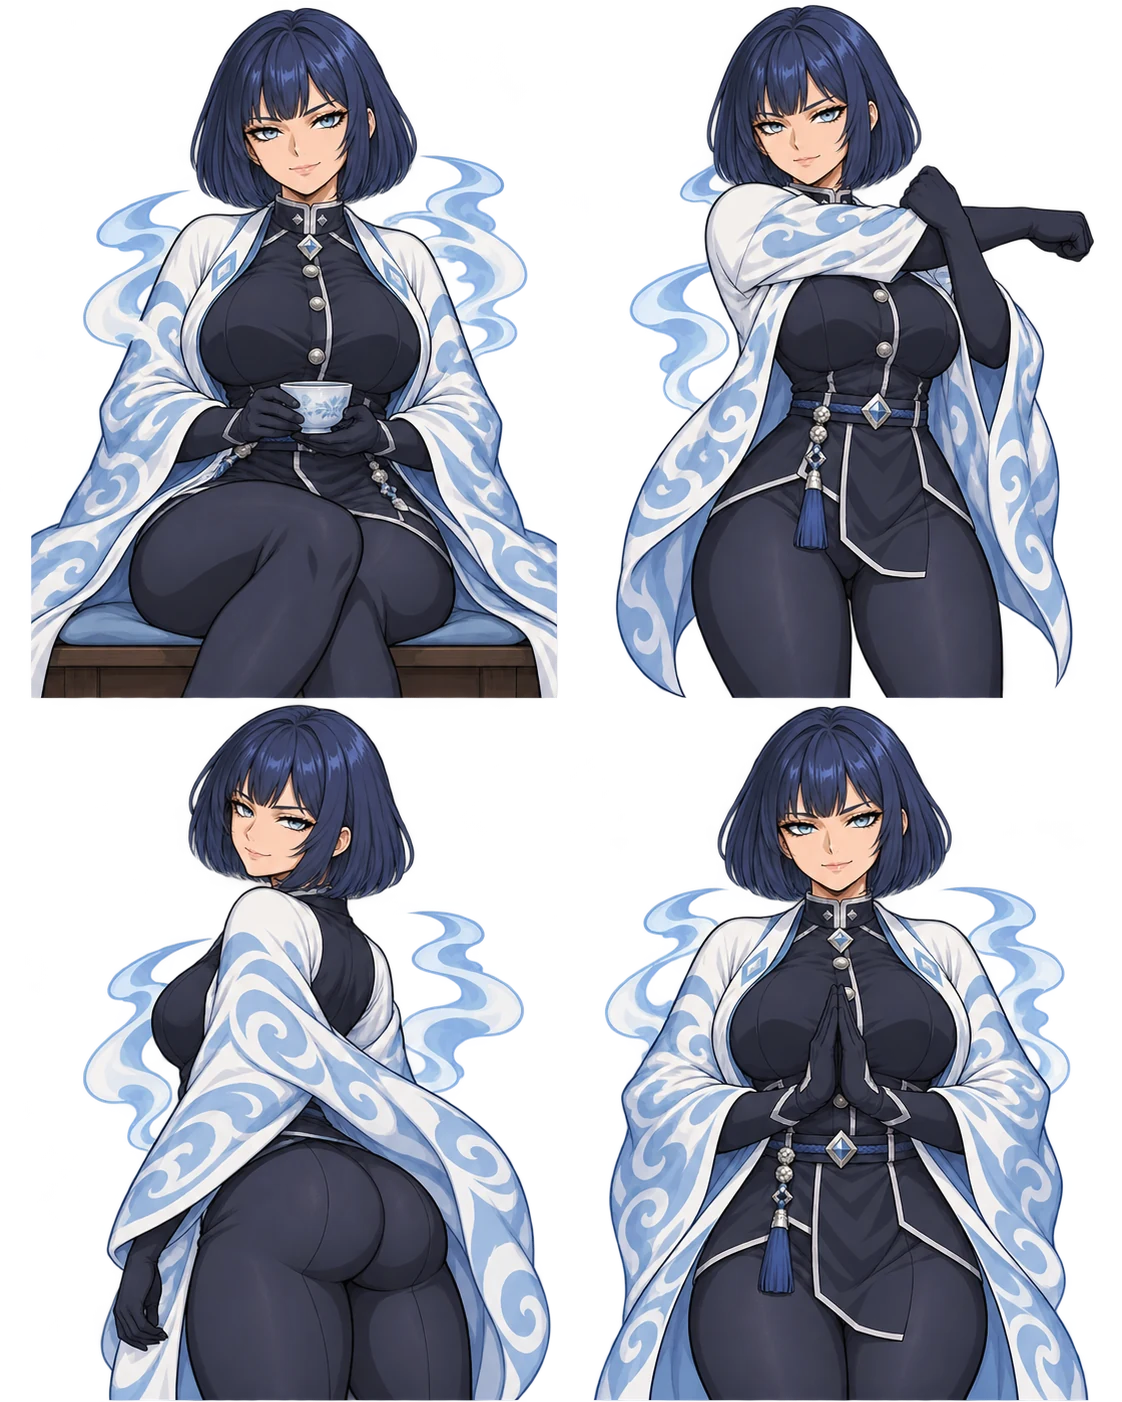
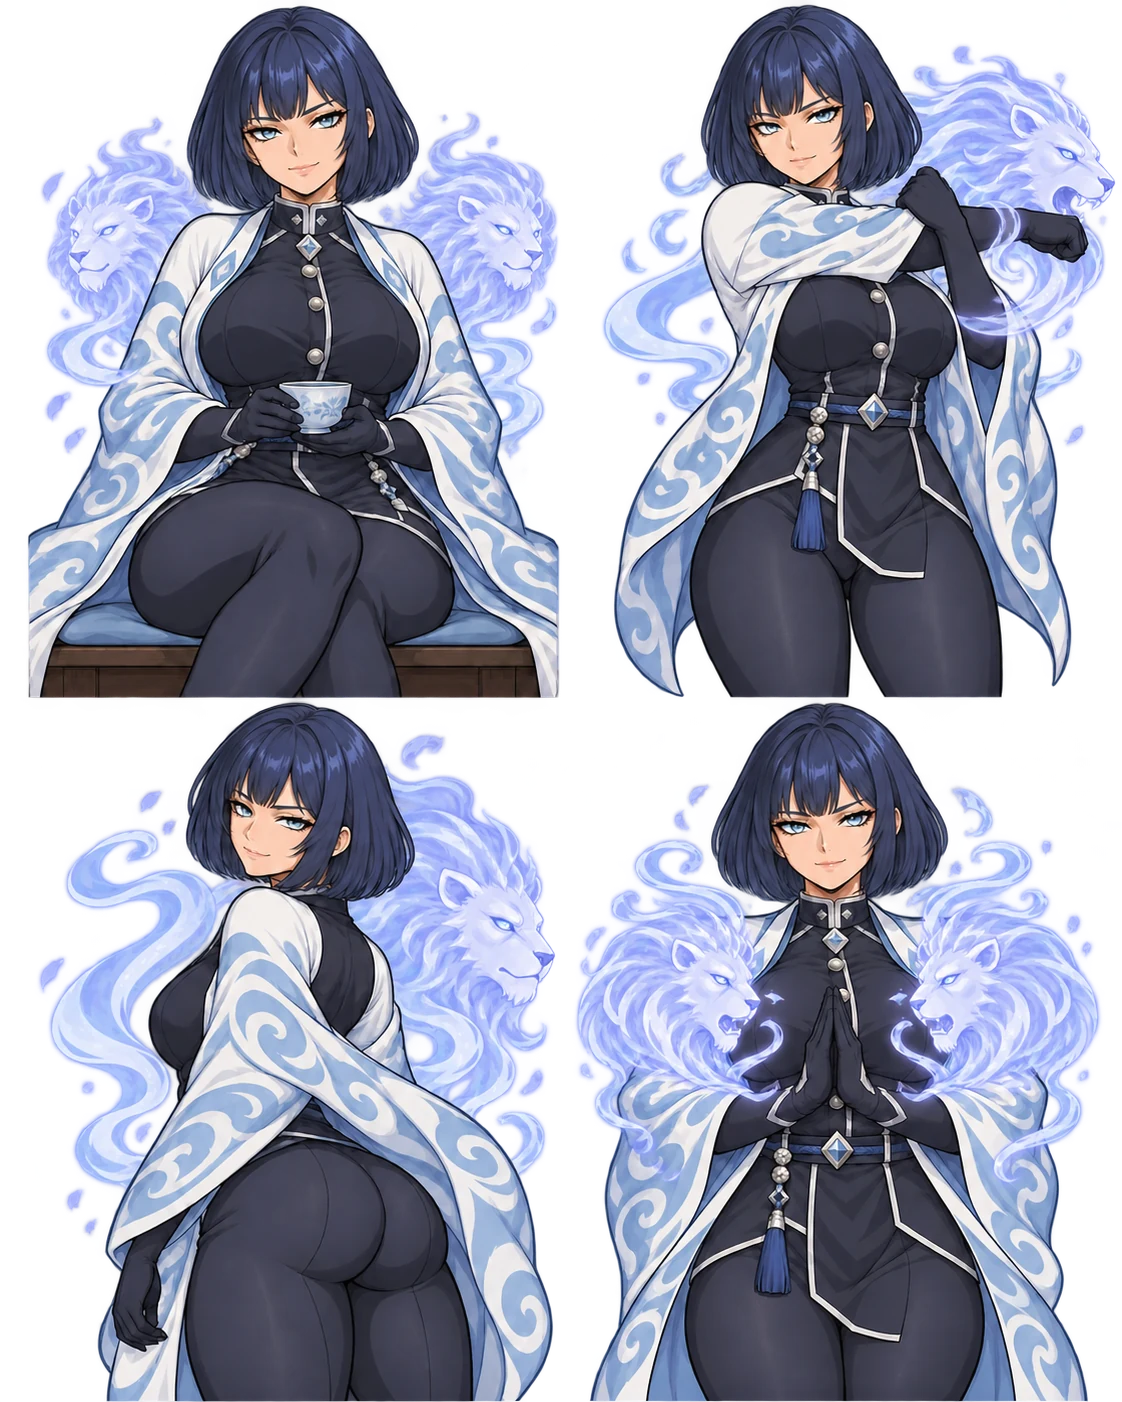
Upgrade elemental cast artwork and add pausable character motion

diff --git a/app.js b/app.js
@@ -340,17 +340,21 @@ function mount(root, opts) {
     const cw = w / 2, ch = extra ? h : h / 2;
     const x = (pose % 2) * cw, y = extra ? 0 : Math.floor(pose / 2) * ch;
     const faces = {
-      gale: [[58,24],[66,31],[54,21],[50,22]],
-      fang: [[50,26],[48,19],[44,18],[53,25]],
+      gale: [[50,44],[43,46],[52,23],[46,39]],
+      fang: [[55,18],[47,23],[47,18],[50,21]],
       ember: [[51,18],[45,19],[48,16],[49,20]],
-      volt: [[65,30],[53,28],[67,21],[55,30]],
+      volt: [[52,18],[49,17],[50,17],[50,18]],
       still: [[53,21],[48,20],[49,20],[49,21]],
-      tide: [[55,28],[52,26],[53,23],[53,26]],
+      tide: [[55,32],[48,26],[55,24],[49,29]],
       granite: [[55,23],[55,22],[52,22],[53,23]]
     };
-    const face = extra ? [50,23] : faces[f.key][pose];
+    const face = extra ? (f.key === 'still' ? [[55,22],[57,24]] : [[61,27],[51,28]])[pose] : faces[f.key][pose];
     const src = global.FS_ART ? global.FS_ART[file] : 'art/' + file;
-    return '<svg class="fs-art fs-art-' + f.key + '" data-pose="' + f.key + '-' + (extra ? pose + 4 : pose) + '" style="--zoom:270%;--fx:-' + face[0] + '%;--fy:-' + face[1] + '%" width="' + cw + '" height="' + ch + '" viewBox="' + [x,y,cw,ch].join(' ') + '" preserveAspectRatio="xMidYMin slice" overflow="hidden" aria-hidden="true"><image href="' + src + '" width="' + w + '" height="' + h + '"/></svg>';
+    const phase = ['gale','fang','ember','volt','still','tide','granite'].indexOf(f.key) * .7 + pose * .4;
+    return '<svg class="fs-art fs-art-' + f.key + '" data-pose="' + f.key + '-' + (extra ? pose + 4 : pose) + '" style="--art-phase:-' + phase + 's;--zoom:270%;--fx:-' + face[0] + '%;--fy:-' + face[1] + '%" width="' + cw + '" height="' + ch + '" viewBox="0 0 ' + cw + ' ' + ch + '" preserveAspectRatio="xMidYMin slice" overflow="hidden" aria-hidden="true">' +
+      '<ellipse class="fs-art-energy" cx="' + cw*.5 + '" cy="' + ch*.55 + '" rx="' + cw*.35 + '" ry="' + ch*.3 + '" fill="' + f.color + '" opacity=".06"/>' +
+      '<g class="fs-figure"><svg width="' + cw + '" height="' + ch + '" viewBox="' + [x,y,cw,ch].join(' ') + '" overflow="hidden"><image href="' + src + '" width="' + w + '" height="' + h + '"/></svg></g></svg>';
+
   }
   const av = (f, cls, d, view) => '<span class="fs-av' + (cls ? ' ' + cls : '') + '" style="--el:' + f.color + '" aria-hidden="true">' + art(f, d, view) + '</span>';
 
@@ -362,6 +366,7 @@ function mount(root, opts) {
     try { localStorage.setItem('floatsting:'+key,JSON.stringify(value)); S.storageError=false; }
     catch(e) { S.storageError=true; }
   }
+  S.artMotion = read('character-motion', true) !== false;
   const prefs=read('prefs',{}) || {};
   const valid=(v,min,max,fallback)=>Number.isInteger(v)&&v>=min&&v<=max?v:fallback;
   Object.assign(S.timer,{rounds:valid(prefs.rounds,1,20,3),work:valid(prefs.work,30,300,180),rest:valid(prefs.rest,15,180,60),sound:typeof prefs.sound==='boolean'?prefs.sound:true});
@@ -510,7 +515,7 @@ function mount(root, opts) {
 
   function guideHTML() {
     const cur = GUIDE.find(g => g.id === S.topic) || GUIDE[0];
-    return '<div class="fs-md' + (S.topic ? ' has-detail' : '') + '"><div class="fs-col fs-md-list"><header class="fs-head"><h1 class="fs-h1">Guide</h1><p class="fs-sub">How the plan works and why</p></header>' +
+    return '<div class="fs-md' + (S.topic ? ' has-detail' : '') + '"><div class="fs-col fs-md-list"><header class="fs-head fs-guidehead"><h1 class="fs-h1">Guide</h1><button class="fs-art-toggle" data-act="artmotion" aria-pressed="' + S.artMotion + '">' + (S.artMotion ? 'Pause art' : 'Animate art') + '</button><p class="fs-sub">How the plan works and why</p></header>' +
       '<ul class="fs-cast" aria-label="The seven forms">' + ['upper', 'lower', 'push', 'pull', 'legs', 'pool', 'rest'].map(k => '<li style="--el:' + FIGHTERS[k].color + '">' + av(FIGHTERS[k]) + '<b>' + FIGHTERS[k].name + '</b><small>' + FIGHTERS[k].label + '</small></li>').join('') + '</ul>' +
       '<ul class="fs-topics">' + GUIDE.map(g => '<li><button class="fs-trow" data-act="opentopic" data-topic="' + g.id + '"' + (g.id === cur.id ? ' aria-current="true"' : '') + '><span><b>' + g.title + '</b><small>' + g.summary + '</small></span>' + ICON.chev + '</button></li>').join('') + '</ul></div>' +
       '<div class="fs-col fs-md-detail fs-read"><button class="fs-back" data-act="back">' + ICON.back + 'Guide</button><h1 class="fs-h2">' + cur.title + '</h1>' + topicHTML(cur) + '</div></div>';
@@ -611,6 +616,7 @@ function mount(root, opts) {
     return '[data-act="' + el.dataset.act + '"]' + ['idx', 'i', 'view', 'topic', 'preview', 'k', 'd', 'p', 'gi', 'sheet', 'to'].map(k => el.dataset[k] != null ? '[data-' + k + '="' + el.dataset[k] + '"]' : '').join('');
   }
   function render() {
+    root.classList.toggle('is-art-paused', !S.artMotion || document.hidden);
     const screen = S.view + '|' + S.day + '|' + S.topic + '|' + S.preview;
     const fk = root.contains(document.activeElement) ? keyOf(document.activeElement) : null, st = elMain.scrollTop;
     elMain.innerHTML = mainHTML();
@@ -726,7 +732,8 @@ function mount(root, opts) {
     const el = ev.target.closest('[data-act]'); if (!el || !root.contains(el)) return;
     const a = el.dataset.act, t = S.timer;
     if (a === 'closesheet' && el.classList.contains('fs-sheetwrap') && ev.target !== el) return;
-    if (a === 'move') { S.sheet = { kind: 'move', idx: +el.dataset.idx, preview: S.view === 'today' ? false : S.preview }; S.sheetFrom = keyOf(el); }
+    if (a === 'artmotion') { S.artMotion = !S.artMotion; write('character-motion', S.artMotion); }
+    else if (a === 'move') { S.sheet = { kind: 'move', idx: +el.dataset.idx, preview: S.view === 'today' ? false : S.preview }; S.sheetFrom = keyOf(el); }
     else if (a === 'swap' && S.sheet?.kind === 'move') {
       const preview = S.sheet.preview, to = +el.dataset.to;
       swapSessions(preview, S.sheet.idx, to); S.sheet = null; S.preview = preview; S.day = to;
@@ -781,7 +788,7 @@ function mount(root, opts) {
     const next=new Date(),w=weekStart(next),idx=(next.getDay()+6)%7;
     if(dateKey(w)!==dateKey(monday)||idx!==todayIdx){monday=w;todayIdx=idx;S.day=null;S.sheet=null;render();}
   }
-  document.addEventListener('visibilitychange',()=>{if(document.visibilityState==='visible'){refreshDate();step();acquireWake();}});
+  document.addEventListener('visibilitychange',()=>{root.classList.toggle('is-art-paused', !S.artMotion || document.hidden);if(document.visibilityState==='visible'){refreshDate();step();acquireWake();}});
   window.addEventListener('focus',refreshDate);
   setInterval(refreshDate,30000);
   render();

diff --git a/app.css b/app.css
@@ -448,3 +448,22 @@ html,body{height:100%;margin:0;background:#0c0a12}
 .fs-art-volt{--zoom:235%;--fx:-62%;--fy:-26%;--px:62%;--py:16%}
 .fs-art-granite{--zoom:257%;--fx:-54%;--fy:-21%;--px:54%;--py:4%}
 .fs-art-still{--zoom:218%;--fx:-49.3%;--fy:-21%;--px:49%;--py:9%}
+
+.fs-hero-art>.fs-art-gale{height:140%;transform:translateY(-30%)}
+.fs-stage>.fs-art-gale{-webkit-mask-image:linear-gradient(#000 80%,transparent);mask-image:linear-gradient(#000 80%,transparent)}
+
+/* Decorative artwork moves independently of workout text and controls. */
+.fs-figure{transform-box:view-box;transform-origin:50% 78%;animation:fs-art-breathe 6s cubic-bezier(.77,0,.175,1) infinite;animation-delay:var(--art-phase,0s)}
+.fs-art-energy{transform-box:fill-box;transform-origin:center;animation:fs-energy-breathe 6s ease-in-out infinite;animation-delay:var(--art-phase,0s)}
+.fs-art-tide .fs-figure{animation-name:fs-water-drift;animation-duration:7s}
+.fs-art-granite .fs-figure{animation-name:fs-stone-breathe;animation-duration:8s}
+.fs-art-still .fs-figure{animation-duration:8s}
+.fs-art-volt .fs-art-energy{animation-duration:4s}
+.fs-guidehead{position:relative;padding-right:92px}
+.fs-art-toggle{position:absolute;right:0;top:0;min-height:44px;padding:0 10px!important;border:1px solid var(--line)!important;border-radius:10px;font-size:12px!important;color:var(--muted)!important}
+@keyframes fs-art-breathe{0%,100%{transform:translateY(0) scale(1)}50%{transform:translateY(-6px) scale(1.014)}}
+@keyframes fs-water-drift{0%,100%{transform:translate(0,0) rotate(0)}50%{transform:translate(5px,-4px) rotate(.35deg)}}
+@keyframes fs-stone-breathe{0%,100%{transform:scale(1)}50%{transform:scale(1.012)}}
+@keyframes fs-energy-breathe{0%,100%{opacity:.035;transform:scale(.94)}50%{opacity:.13;transform:scale(1.04)}}
+.is-art-paused .fs-figure,.is-art-paused .fs-art-energy{animation-play-state:paused}
+@media(prefers-reduced-motion:reduce){.fs-figure,.fs-art-energy{animation:none!important}}

diff --git a/sw.js b/sw.js
@@ -1,4 +1,4 @@
-const CACHE = 'floatsting-v14-ninja-poses';
+const CACHE = 'floatsting-v16-living-cast';
 const ASSETS = [
   './',
   './index.html',

diff --git a/DESIGN.md b/DESIGN.md
@@ -102,7 +102,7 @@ One document, four views, one visible at a time, swapped in place so the timer a
 
 ## Motion and focus
 
-Three finite moments, nothing loops. Opening: one slash, the day's kanji, the name, gone in 1.5 seconds. Check: the fighter's own strike crosses the row (wind arc, triple claw, flame edge, lightning, fractured strike) with two streaks, sparks and a pop on the box; the text never moves. Finish: a double slash, the kanji and Session complete over the hero for under two seconds when the last lift is checked. Effects fire for pointer taps only. Textures such as speed lines are static. State fills run 120 to 180ms, the ring 1s linear. Reduced motion turns all of it off and skips the opening. Focus-visible is a 3px element color outline, offset 2px.
+Character art has slow breathing or water-drift motion with a soft elemental pulse, independent of all text and controls. Guide offers Pause art, stored separately from workout progress. Hidden documents pause; reduced-motion disables decorative loops. Three finite feedback moments also remain. Opening: one slash, the day's kanji, the name, gone in 1.5 seconds. Check: the fighter's own strike crosses the row (wind arc, triple claw, flame edge, lightning, fractured strike) with two streaks, sparks and a pop on the box; the text never moves. Finish: a double slash, the kanji and Session complete over the hero for under two seconds when the last lift is checked. Effects fire for pointer taps only. Textures such as speed lines are static. State fills run 120 to 180ms, the ring 1s linear. Reduced motion turns all of it off and skips the opening. Focus-visible is a 3px element color outline, offset 2px.
 
 ## Do
 
@@ -114,7 +114,7 @@ Three finite moments, nothing loops. Opening: one slash, the day's kanji, the na
 ## Don't
 
 - Don't let art overlap text or controls.
-- Don't add looping particles or ambient animation.
+- Keep character motion subtle, pausable, and separate from workout controls.
 - Don't use generic vector characters or placeholder art.
 - Don't show invented statistics, streaks or history.
 - Don't use dashes in interface copy.
